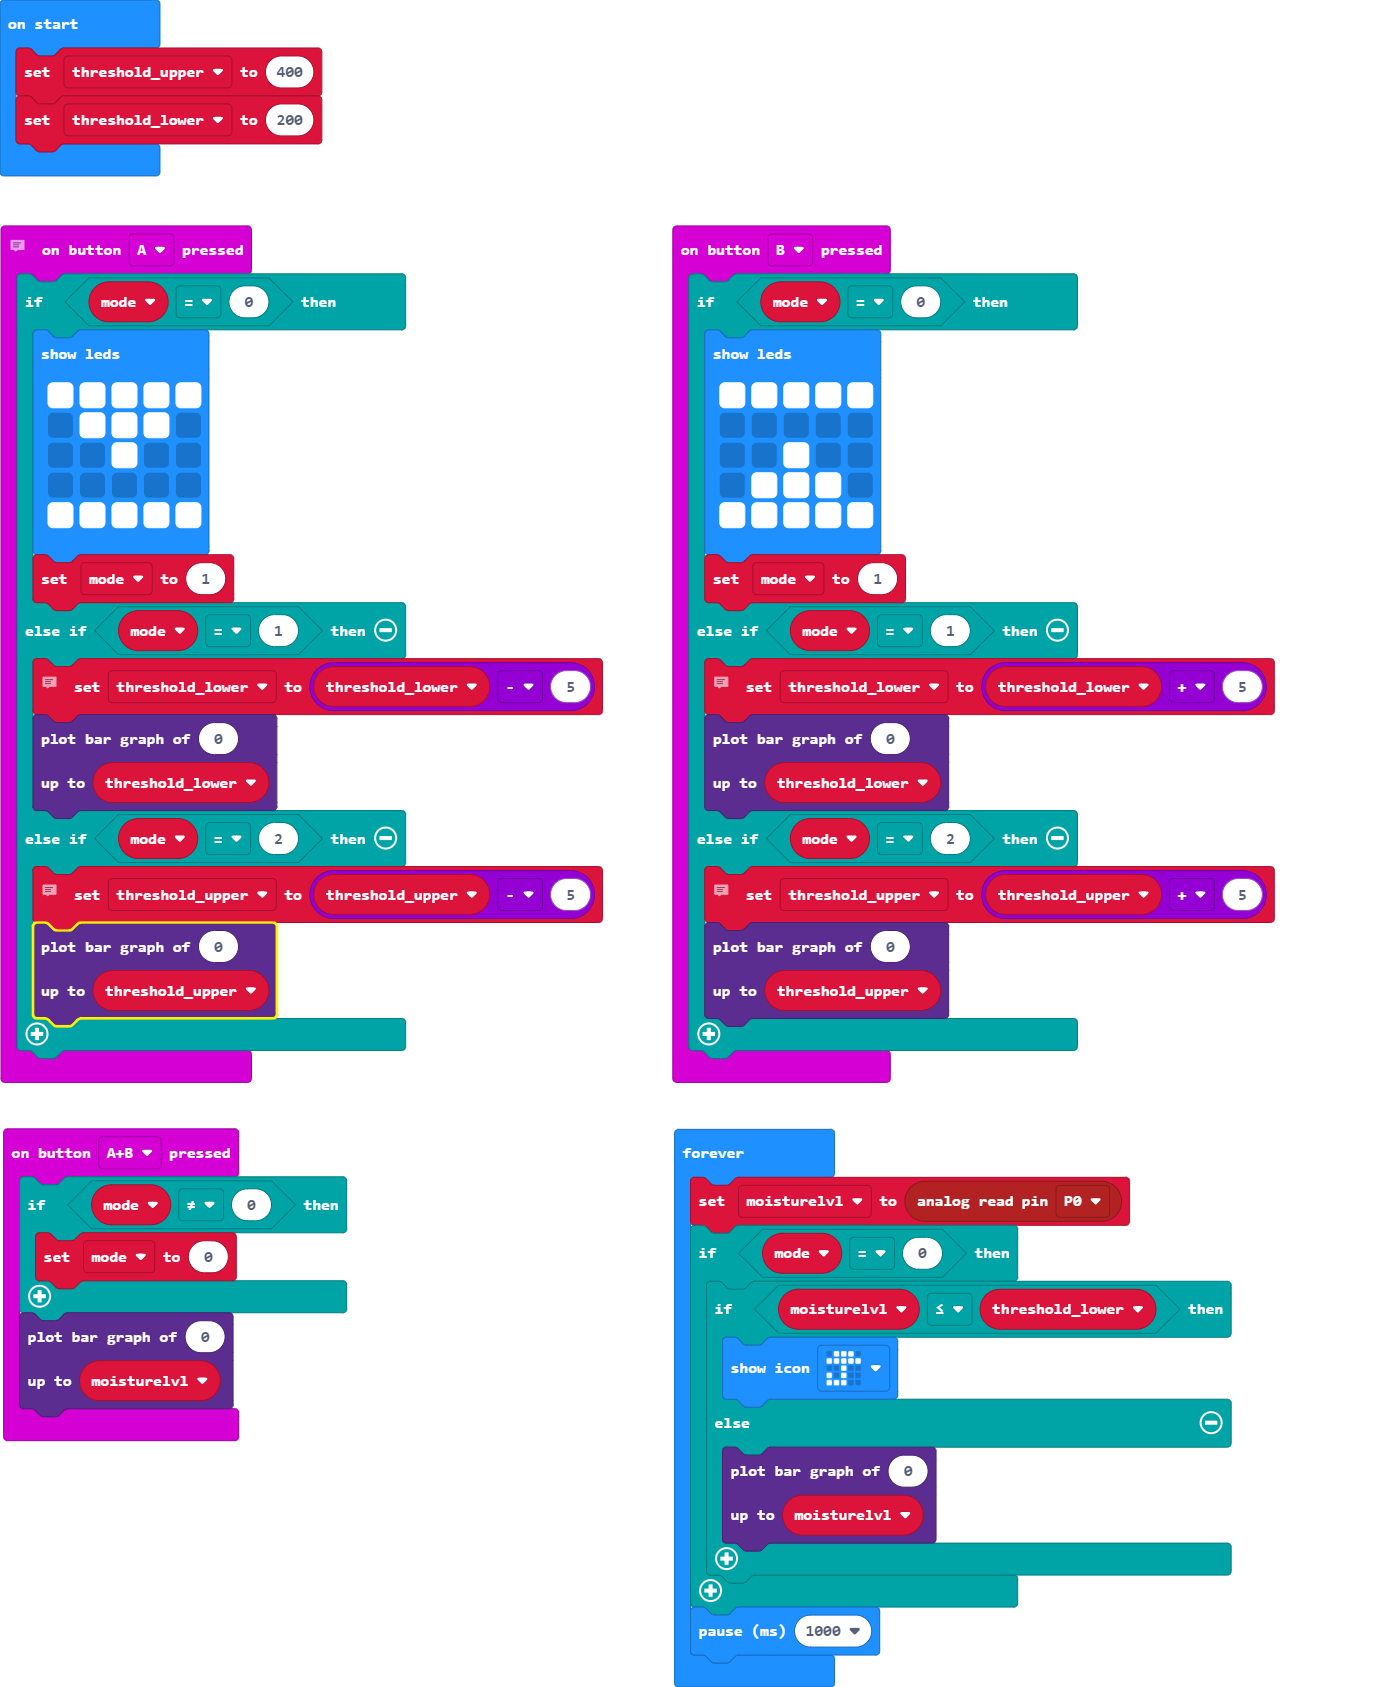
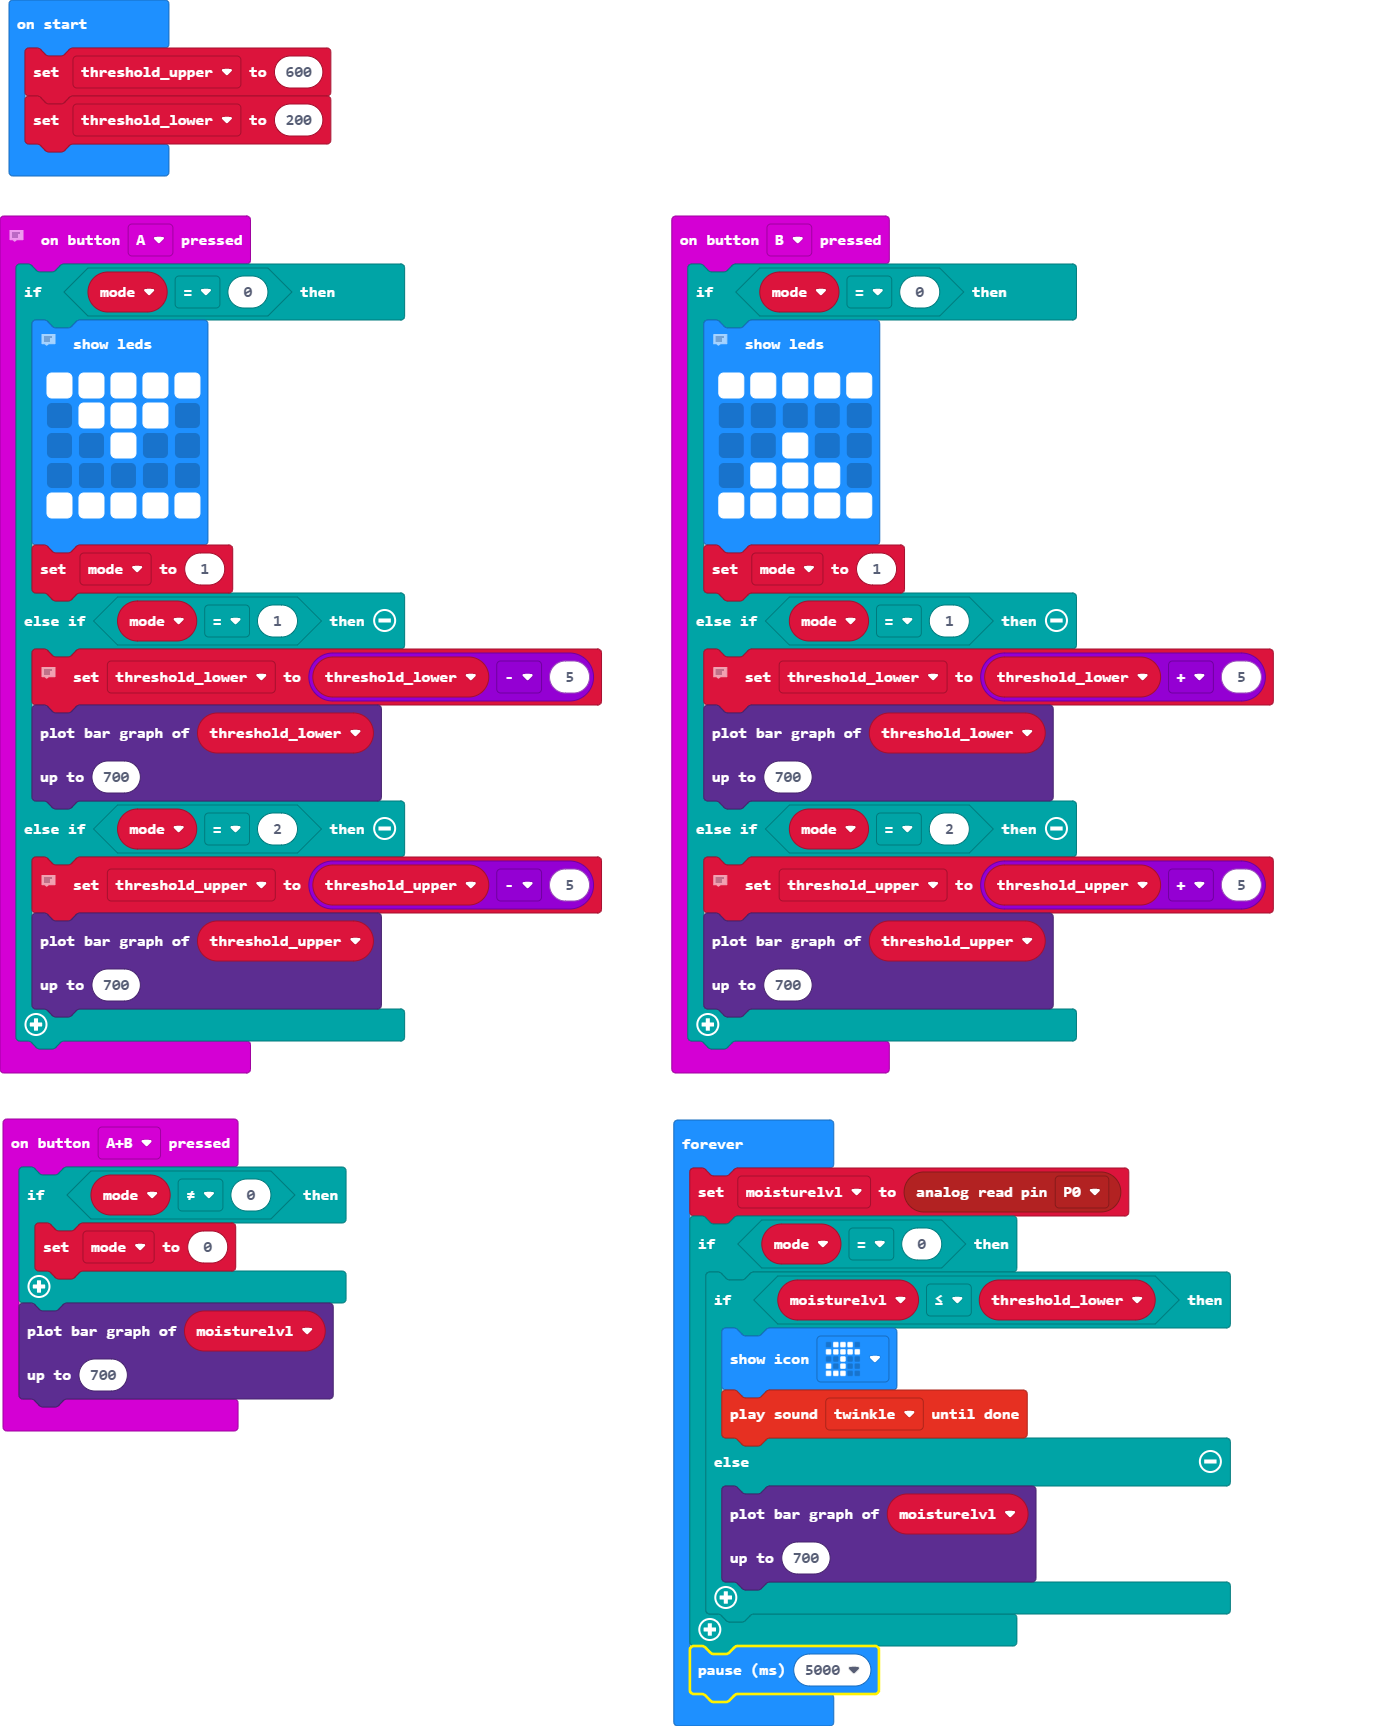
Added sound when watering is needed

Changed region(s): [[0.4684, 0.1233, 0.9368, 0.9864], [0.0, 0.0, 0.4372, 0.8631]]

diff --git a/main.ts b/main.ts
@@ -1,10 +1,10 @@
-//  mode
-//  0 = running mode
-//  1 = lower thresshold setting
-//  2 = upper thresshold setting
-input.onButtonPressed(Button.A, function on_button_pressed_a() {
-    
+// modes
+// 0 = running mode
+// 1 = lower thresshold setting
+// 2 = upper thresshold setting
+input.onButtonPressed(Button.A, function () {
     if (mode == 0) {
+        // If running mode, switch to threshold_lower editing
         basic.showLeds(`
             # # # # #
             . # # # .
@@ -14,28 +14,33 @@ input.onButtonPressed(Button.A, function on_button_pressed_a() {
             `)
         mode = 1
     } else if (mode == 1) {
-        //  If running, switch to lower threshold editing
-        //  If lower-edit mode, decrease threshold
+        // If lower-edit mode, decrease threshold
         threshold_lower = threshold_lower - 5
-        led.plotBarGraph(threshold_lower, 700)
+        led.plotBarGraph(
+        threshold_lower,
+        700
+        )
     } else if (mode == 2) {
-        //  If upper-edit mode, decrease threshold
+        // If upper-edit mode, decrease threshold
         threshold_upper = threshold_upper - 5
-        led.plotBarGraph(threshold_upper, 700)
+        led.plotBarGraph(
+        threshold_upper,
+        700
+        )
     }
-    
 })
-input.onButtonPressed(Button.AB, function on_button_pressed_ab() {
-    
+input.onButtonPressed(Button.AB, function () {
     if (mode != 0) {
         mode = 0
     }
-    
-    led.plotBarGraph(moisturelvl, 700)
+    led.plotBarGraph(
+    moisturelvl,
+    700
+    )
 })
-input.onButtonPressed(Button.B, function on_button_pressed_b() {
-    
+input.onButtonPressed(Button.B, function () {
     if (mode == 0) {
+        // If running mode, switch to threshold_upper editing
         basic.showLeds(`
             # # # # #
             . . . . .
@@ -45,34 +50,39 @@ input.onButtonPressed(Button.B, function on_button_pressed_b() {
             `)
         mode = 1
     } else if (mode == 1) {
-        //  If running, switch to lower threshold editing
-        //  If lower-edit mode, increase threshold
+        // If lower-edit mode, increase threshold
         threshold_lower = threshold_lower + 5
-        led.plotBarGraph(threshold_lower, 700)
+        led.plotBarGraph(
+        threshold_lower,
+        700
+        )
     } else if (mode == 2) {
-        //  If upper-edit mode, increase threshold
+        // If upper-edit mode, increase threshold
         threshold_upper = threshold_upper + 5
-        led.plotBarGraph(threshold_upper, 700)
+        led.plotBarGraph(
+        threshold_upper,
+        700
+        )
     }
-    
 })
 let moisturelvl = 0
 let mode = 0
 let threshold_lower = 0
 let threshold_upper = 0
-threshold_upper = 400
+threshold_upper = 600
 threshold_lower = 200
-basic.forever(function on_forever() {
-    
+basic.forever(function () {
     moisturelvl = pins.analogReadPin(AnalogPin.P0)
     if (mode == 0) {
         if (moisturelvl <= threshold_lower) {
             basic.showIcon(IconNames.Umbrella)
+            soundExpression.twinkle.playUntilDone()
         } else {
-            led.plotBarGraph(moisturelvl, 700)
+            led.plotBarGraph(
+            moisturelvl,
+            700
+            )
         }
-        
     }
-    
-    basic.pause(1000)
+    basic.pause(5000)
 })

diff --git a/main.py b/main.py
@@ -1,4 +1,4 @@
-# mode
+# modes
 # 0 = running mode
 # 1 = lower thresshold setting
 # 2 = upper thresshold setting
@@ -6,6 +6,7 @@
 def on_button_pressed_a():
     global mode, threshold_lower, threshold_upper
     if mode == 0:
+        # If running mode, switch to threshold_lower editing
         basic.show_leds("""
             # # # # #
             . # # # .
@@ -15,7 +16,6 @@ def on_button_pressed_a():
             """)
         mode = 1
     elif mode == 1:
-        # If running, switch to lower threshold editing
         # If lower-edit mode, decrease threshold
         threshold_lower = threshold_lower - 5
         led.plot_bar_graph(threshold_lower, 700)
@@ -35,6 +35,7 @@ input.on_button_pressed(Button.AB, on_button_pressed_ab)
 def on_button_pressed_b():
     global mode, threshold_lower, threshold_upper
     if mode == 0:
+        # If running mode, switch to threshold_upper editing
         basic.show_leds("""
             # # # # #
             . . . . .
@@ -44,7 +45,6 @@ def on_button_pressed_b():
             """)
         mode = 1
     elif mode == 1:
-        # If running, switch to lower threshold editing
         # If lower-edit mode, increase threshold
         threshold_lower = threshold_lower + 5
         led.plot_bar_graph(threshold_lower, 700)
